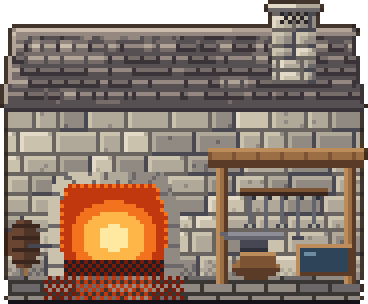
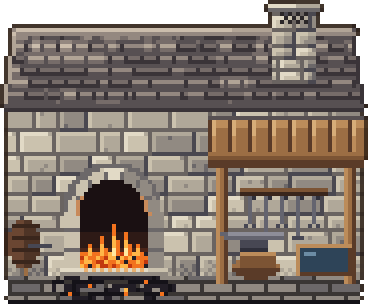
The forge yard after the review of #69 (D9): a round-headed furnace under voussoirs with the fire as coals and flames in a soot-dark mouth, a scorched patch with a few embers instead of a checkered spill, a plank roof on the lean-to, the forge's shadow down and right, a square laid apron, and the tw
Note to-d-after-69 (Claude A, 18:00).

Claude-Session: https://claude.ai/code/session_01Uft2CZyiCtqUahXudK25Dy

Changed region(s): [[0.1196, 0.5329, 0.5082, 1.0], [0.5679, 0.3553, 1.0, 0.5329]]

diff --git a/scripts/art/caldera_props.py b/scripts/art/caldera_props.py
@@ -268,50 +268,81 @@ def forge() -> Canvas:
             cv.set(x, y, '#2A2628')
     for x in range(71, 81):
         cv.set(x, 20, SL[0])  # flashing where the stack meets the slates
-    # the furnace: an arch of voussoirs, the fire white at its heart
-    mouth = {(x, y) for (x, y) in disc(30, 52, 12) if y >= 46} | rect_set(18, 52, 25, 16)
-    ring = {(x, y) for (x, y) in disc(30, 52, 16) if y >= 42} - mouth
+    # the furnace (review 19 Oct: not a square block of glow): a round-headed opening
+    # under an arch of wedge-shaped voussoirs with a keystone, between dressed jambs on a
+    # stone sill; inside it is dark with soot, and the fire is a bed of coals at the back
+    # with flames licking up from it, white only at their heart; the fire's light touches
+    # the arch's inner edge and the sill, nothing more
+    acx, acy, ar = 30, 52, 8
+    opening = {(x, y) for (x, y) in disc(acx, acy, ar) if y < acy} | rect_set(acx - ar, acy, 2 * ar + 1, 14)
+    ring = {(x, y) for (x, y) in disc(acx, acy, ar + 4.5) if y < acy + 1} - opening
     for (x, y) in ring:
-        a = math.atan2(y - 52, x - 30)
-        joint = int((a + math.pi) / (math.pi / 9)) != int((a + math.pi + 0.06) / (math.pi / 9))
-        c = ST[4] if x < 27 else ST[3] if x < 34 else ST[2]
-        cv.set(x, y, ST[1] if joint else c)
-    for (x, y) in rect_set(14, 52, 4, 16) | rect_set(43, 52, 4, 16):  # the jambs
-        cv.set(x, y, ST[4] if x < 30 and (x, y) not in mouth else ST[2])
-        if y % 5 == 0:
-            cv.set(x, y, ST[1])
-    for (x, y) in mouth:
-        d = math.hypot(x - 30, (y - 58) * 1.2)
-        c = LAVA[5] if d < 4 else LAVA[4] if d < 8 else LAVA[3] if d < 11 else LAVA[2]
-        if y >= 64:
-            c = LAVA[1] if (x + y) % 2 else BASALT[1]  # the coals' bed
+        a = math.atan2(acy - y, x - acx)  # 0 east, pi west
+        k = int(a / (math.pi / 7))  # seven voussoirs
+        edge = abs(a / (math.pi / 7) - round(a / (math.pi / 7))) < 0.09
+        c = ST[1] if edge else (ST[5] if k == 3 else ST[4] if x < acx - 2 else ST[3] if x < acx + 3 else ST[2])
+        if math.hypot(x - acx, y - acy) > ar + 3.6:
+            c = ST[1]  # the joint round the arch
         cv.set(x, y, c)
-    for (x, y) in ring:  # the fire's light on the arch's inner edge
-        if any((x + dx, y + dy) in mouth for dx, dy in ((1, 0), (-1, 0), (0, 1))):
-            cv.set(x, y, LAVA[3] if (x + y) % 2 else LAVA[2])
+    for (x, y) in rect_set(acx - ar - 4, acy, 4, 14) | rect_set(acx + ar + 1, acy, 4, 14):  # the jambs
+        west = x < acx
+        c = ST[4] if west else ST[2]
+        if (y - acy) % 5 == 4:
+            c = ST[1]
+        cv.set(x, y, c)
+    for (x, y) in opening:  # the soot-dark mouth, warmer toward the fire
+        d = acy + 13 - y
+        cv.set(x, y, '#1A1012' if d > 8 else '#2E1A16' if d > 4 else '#4A2418')
+    for x in range(acx - ar, acx + ar + 1):  # the bed of coals at the back
+        for y in range(acy + 10, acy + 14):
+            n = noise2(x, y, 235)
+            cv.set(x, y, LAVA[4] if n > 0.75 else LAVA[3] if n > 0.4 else LAVA[2] if n > 0.15 else BASALT[1])
+    for (fx, fh) in ((acx - 3, 5), (acx, 8), (acx + 3, 6), (acx + 6, 3), (acx - 6, 3)):  # flames licking up
+        for t in range(fh):
+            y = acy + 10 - t
+            cv.set(fx, y, LAVA[5] if t < fh // 3 and fh > 5 else LAVA[4] if t < fh * 2 // 3 else LAVA[3])
+            if t < fh // 2:
+                cv.set(fx + 1, y, LAVA[3])
+    for (x, y) in ring:  # the fire's light on the arch's inner edge, lower down only
+        if y > acy - 5 and any((x + dx, y + dy) in opening for dx, dy in ((1, 0), (-1, 0), (0, 1))):
+            cv.set(x, y, '#C88A5A')
+    for x in range(acx - ar - 5, acx + ar + 6):  # the sill, lit along its top, the glow on its lip
+        cv.set(x, acy + 14, ST[5] if x < acx + 6 else ST[4]); cv.set(x, acy + 15, ST[2])
+        if acx - ar <= x <= acx + ar:
+            cv.set(x, acy + 14, '#E8B070' if x % 2 else ST[5])
     # the bellows, leather between two oak boards, its nozzle into the furnace's side
     for (x, y) in oval(8, 60, 4, 6):
         cv.set(x, y, '#6A4632' if x < 8 else '#4E3426')
     for y in range(55, 66, 3):
         cv.hline(5, y, 7, '#3A261C')
     cv.vline(8, 66, 3, OAK[3]); cv.hline(9, 60, 6, IRON[2])
-    # the floor in front: flags, the glow spilling on them
+    # the floor in front: flags, scorched dark before the furnace where sparks fall, a few
+    # embers lying on it (review 19 Oct: no checkered spill)
     for (x, y) in rect_set(4, 68, w - 8, 6):
         sx = (x + (y // 3) % 2 * 4) // 8
         c = ST[2] if noise2(sx, y // 3, 234) > 0.4 else ST[1]
         if (x + (y // 3) % 2 * 4) % 8 == 0 or y % 3 == 0:
             c = MATERIALS['ash'][0]
-        if abs(x - 30) < 18 and (x + y) % 2 == 0:
-            c = LAVA[2] if abs(x - 30) < 10 else LAVA[1]
+        if math.hypot((x - 30) / 16, (y - 70) / 4) < 1 and noise2(x // 2, y, 236) > 0.25:
+            c = BASALT[1] if c != MATERIALS['ash'][0] else BASALT[0]  # the scorch
         cv.set(x, y, c)
+    for (ex, ey) in ((24, 70), (33, 72), (38, 69), (19, 72), (42, 72)):
+        cv.set(ex, ey, LAVA[3])
+    cv.set(33, 71, LAVA[4])
     for x in range(4, w - 4):
         cv.set(x, 74, BASALT[0])  # the step's shadow on the ash
     # the open bay: an oak lean-to on two posts, its shade on the wall
-    for x in range(54, w - 3):
-        for y in range(36, 41):
-            cv.set(x, y, OAK[4] if y == 36 else OAK[3] if y < 39 else OAK[1])
-        if x % 6 == 0:
-            cv.set(x, 37, OAK[2]); cv.set(x, 38, OAK[2])  # the boards' joints
+    for x in range(54, w - 3):  # its roof of planks, seen from above, sloping down from the wall
+        for y in range(29, 37):
+            c = OAK[4] if y < 31 else OAK[3]
+            if (x - 54) % 5 == 0:
+                c = OAK[1]  # the gap between two planks
+            elif (x - 54) % 5 == 1:
+                c = OAK[5] if y < 33 else OAK[4]  # each plank's lit edge
+            cv.set(x, y, c)
+        cv.set(x, 28, SL[1])  # where it meets the wall, under the eaves
+        for y in range(37, 41):  # the beam's face below the planks' ends
+            cv.set(x, y, OAK[3] if y == 37 else OAK[2] if y < 39 else OAK[1])
     for x in range(55, w - 4):
         for y in range(41, 45):
             detail.shade(cv, x, y, 1 if y > 42 else 2)

diff --git a/scripts/art/sunstone_zones.py b/scripts/art/sunstone_zones.py
@@ -953,9 +953,9 @@ def caldera(frame: int = 0):
         x, y = int(noise2(i, 0, 262) * W), int(noise2(i, 1, 262) * H)
         detail.pebble(cv, x, y, BASALT, big=i % 4 == 0)
     # old flows, cooled flat on the ash between the newer things
-    for (pts, r, sd) in (([(226, 80), (256, 96), (284, 104)], 13, 601),
-                         ([(4, 182), (36, 196), (70, 206)], 14, 602),
-                         ([(152, 446), (170, 486), (186, 520)], 12, 604)):
+    # (review 19 Oct: the two tongues lying west of the cart line and south of the shrine
+    # read as grey worms, so only the one under the rim, where the lake once overflowed, stays)
+    for (pts, r, sd) in (([(226, 80), (256, 96), (284, 104)], 13, 601),):
         cooled_flow(cv, pts, r, sd)
     # the crater: a lava lake at the top behind a ragged basalt rim
     rim = caldera_rim
@@ -1010,8 +1010,11 @@ def caldera(frame: int = 0):
             cv.set(px, y, MATERIALS['wood'][3]); cv.set(px + 1, y, MATERIALS['wood'][1])
     cv.hline(3, 270, 26, MATERIALS['wood'][4]); cv.hline(3, 271, 26, MATERIALS['wood'][2])
     buffer_stop(cv, CART_STOP, 284, heap=BASALT)
-    # the forge yard: flagstones of basalt
-    yard = worlds.thick([(40, 400), (110, 400)], 30)
+    # the forge yard: a laid apron of basalt flags in front of the smithy, square to its
+    # front and as wide as it, its outer edge ragged where flags have sunk or gone (review
+    # 19 Oct: not a rounded blob)
+    yard = {(x, y) for x in range(14, 128) for y in range(396, 428)
+            if not ((x < 18 or x > 123 or y > 423) and noise2(x // 5, y // 4, 268) > 0.45)}
     for (x, y) in yard:
         if (x, y) in river:
             continue
@@ -1020,6 +1023,16 @@ def caldera(frame: int = 0):
         if (x + (y // 8) % 2 * 5) % 10 == 0 or y % 8 == 0:
             c = BASALT[0]
         cv.set(x, y, c)
+    # the forge's shadow, down and to the right of it (forge sprite at 20, 320, 96 x 80)
+    for y in range(338, 404):
+        for x in range(116, 116 + min(9, (y - 330) // 4)):
+            if (x, y) not in river:
+                style.darken(cv, x, y)
+                if x < 116 + min(5, (y - 330) // 6):
+                    style.darken(cv, x, y)  # deeper near the wall
+    for x in range(20, 126):  # and its foot's shadow along the yard below the step
+        for y in (400, 401):
+            style.darken(cv, x + (y - 400) + 2, y)
     # flagstones on from the bridge's east end to Cinder Springs
     east_path = worlds.thick([(232, 300), (W - 2, 300)], 8) | thick_from(SPRINGS_PATH, 8, 43, W)
     for (x, y) in east_path:
